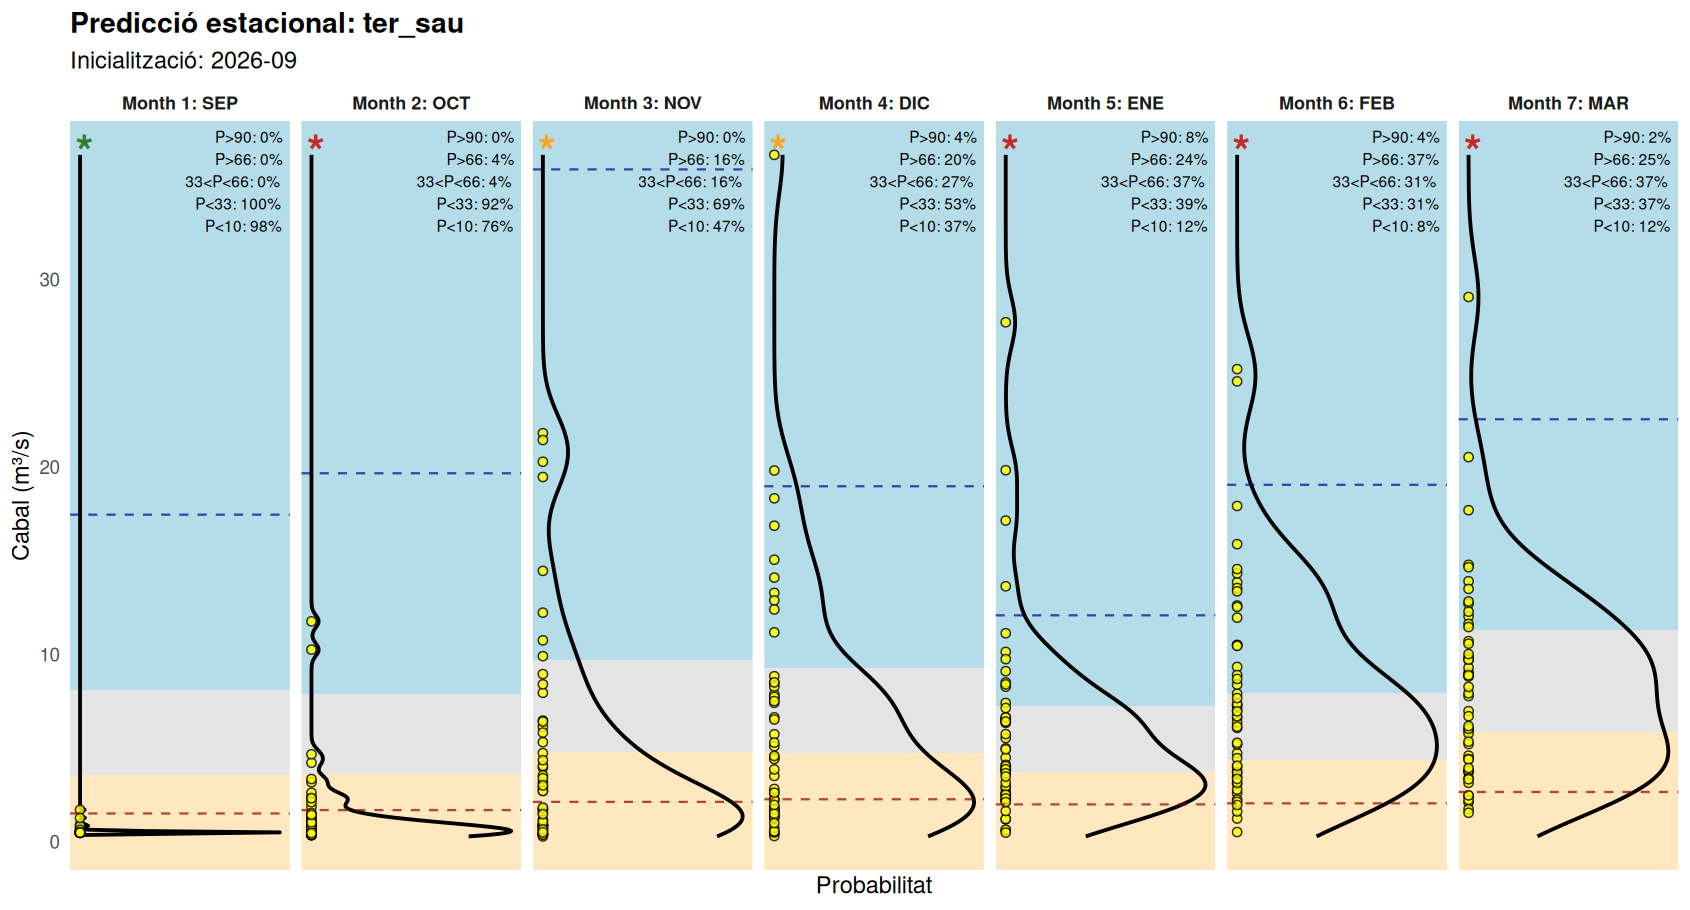
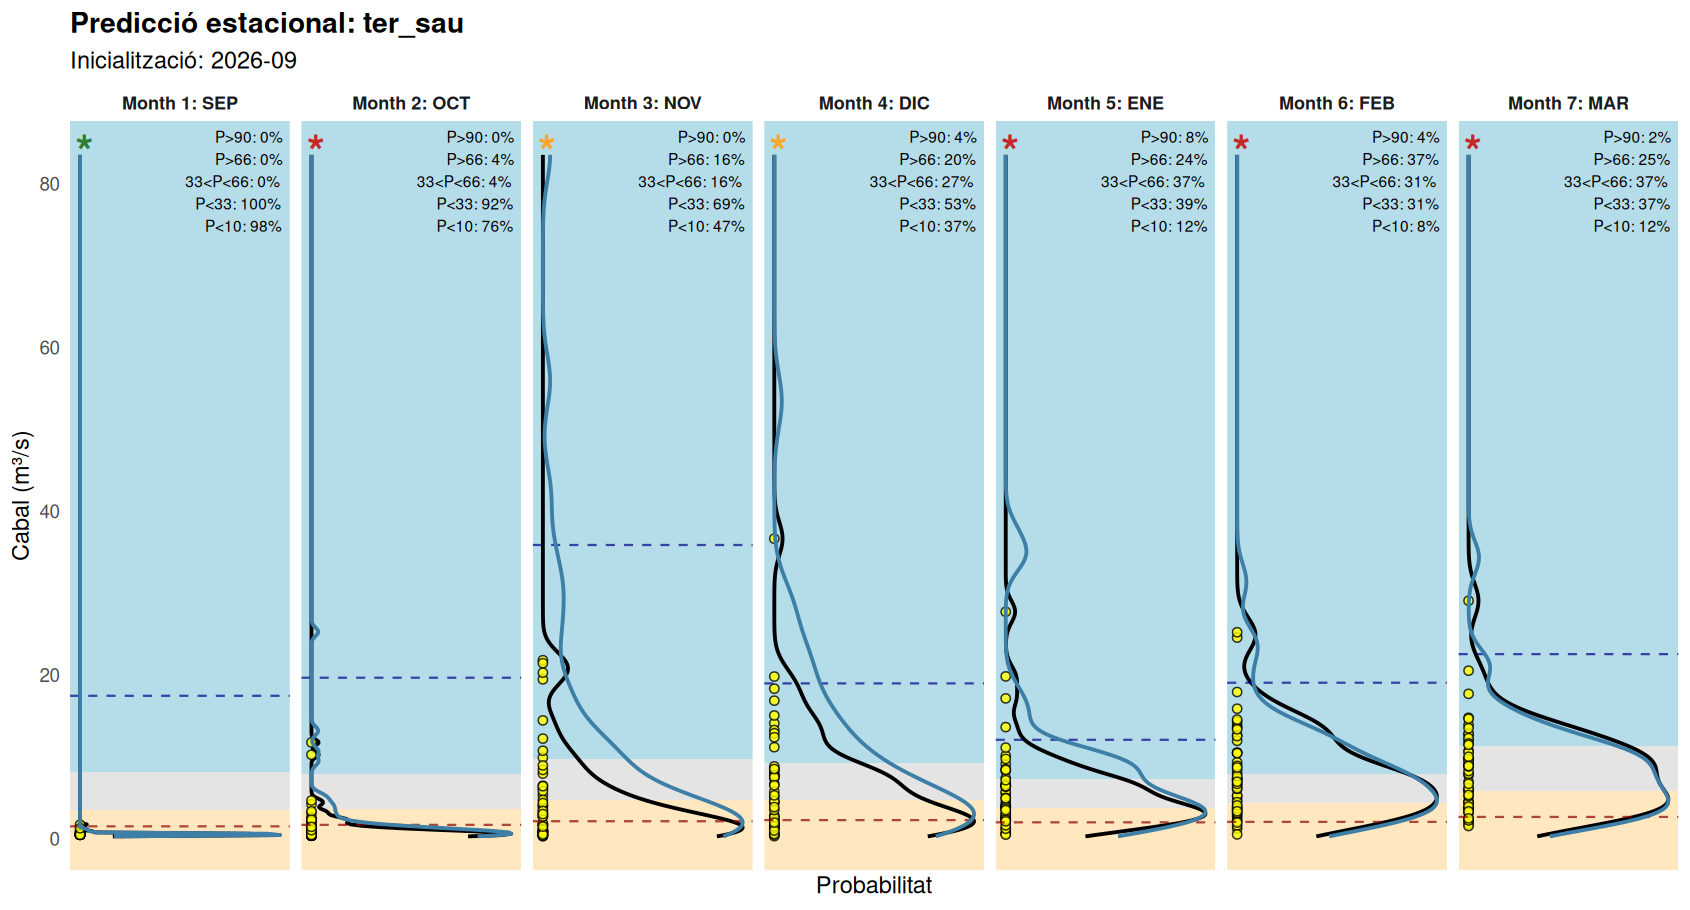
Add QM bias-correction comparison: methodology, skill table, and corrected-forecast overlay (Sau inflow + volume)

diff --git a/index.html b/index.html
@@ -69,6 +69,28 @@ header p{font-size:12px;opacity:0.7}
 /* Leaflet popup style */
 .leaflet-popup-content b{color:#065A82}
 .station-popup{font-size:12px;line-height:1.6}
+
+/* Methodology modal */
+.modal-overlay{position:fixed;inset:0;background:rgba(20,25,28,0.55);display:none;
+               align-items:flex-start;justify-content:center;z-index:1000;padding:4vh 1rem;overflow-y:auto}
+.modal-overlay.open{display:flex}
+.modal-box{background:#fff;border-radius:10px;max-width:880px;width:100%;padding:1.75rem 2rem 2rem;
+           box-shadow:0 20px 60px rgba(0,0,0,0.3)}
+.modal-box h2{font-size:19px;color:#065A82;margin-bottom:0.5rem}
+.modal-box h3{font-size:14px;color:#2C2C2A;margin:1.4rem 0 0.5rem}
+.modal-box p{font-size:13px;line-height:1.6;color:#3a3a38;margin-bottom:0.6rem}
+.modal-box p.note{font-size:11.5px;color:#888780;font-style:italic}
+.modal-close{float:right;background:none;border:none;font-size:22px;color:#888780;cursor:pointer;line-height:1}
+.skill-table{width:100%;border-collapse:collapse;font-size:12px;margin:0.6rem 0 1rem}
+.skill-table th,.skill-table td{padding:5px 8px;text-align:right;border-bottom:1px solid #F0EFE9}
+.skill-table th:first-child,.skill-table td:first-child{text-align:left}
+.skill-table thead th{background:#F8F7F3;color:#888780;font-weight:600;text-transform:uppercase;font-size:10.5px;letter-spacing:0.04em}
+.skill-table td.better{color:#2E7D32;font-weight:700}
+.skill-table td.worse{color:#C62828}
+.skill-table tr.sep td{border-top:2px solid #D9D8D4}
+.method-badge{display:inline-block;font-size:10.5px;font-weight:700;padding:1px 8px;border-radius:999px;margin-left:6px;vertical-align:middle}
+.badge-op{background:#F0EFE9;color:#555}
+.badge-qm{background:#E3F0FA;color:#065A82}
 </style>
 </head>
 <body>
@@ -76,6 +98,7 @@ header p{font-size:12px;opacity:0.7}
 <header>
   <h1>NEREIDA — Seasonal Density Forecast</h1>
   <p>Seleccioneu una estació al mapa per veure la previsió</p>
+  <button id="btnMethod" onclick="openMethod()" style="margin-left:auto;font-size:12px;padding:5px 12px;border-radius:5px;border:1px solid rgba(255,255,255,0.5);background:transparent;color:#fff;cursor:pointer;white-space:nowrap">Metodologia i validació &rarr;</button>
 </header>
 
 <div class="controls">
@@ -106,6 +129,7 @@ header p{font-size:12px;opacity:0.7}
   <span class="legend-item"><span class="leg-line" style="background:#8B0000;opacity:0.7"></span>P10</span>
   <span class="legend-item"><span class="leg-line" style="background:#00008B;opacity:0.7"></span>P90</span>
   <span class="legend-item"><span class="leg-line" style="background:#000"></span>KDE ensemble</span>
+  <span class="legend-item"><span class="leg-line" style="background:#3d7fa6;height:2.5px"></span>KDE corregida (QM)</span>
   <span class="legend-item"><span class="leg-dot"></span>Membres</span>
   <span class="legend-item"><span class="leg-line" style="background:#D81B60;height:2.5px"></span>Observat</span>
   <span class="legend-item" style="border-left:1px solid #D9D8D4;padding-left:1rem">
@@ -117,6 +141,33 @@ header p{font-size:12px;opacity:0.7}
     <span class="map-legend-item"><span class="ml-dot" style="background:#065A82"></span>Estació cabal</span>
     <span class="map-legend-item"><span class="ml-dot" style="background:#E65100"></span>Embassament</span>
   </span>
+</div>
+
+<div class="modal-overlay" id="methodOverlay" onclick="if(event.target===this)closeMethod()">
+  <div class="modal-box">
+    <button class="modal-close" onclick="closeMethod()" aria-label="Tanca">&times;</button>
+    <h2>Per què hi ha dues corbes al gràfic?</h2>
+    <p>Cada panell mostra la distribució de probabilitat (corba negra, <b>KDE ensemble</b>) de 51 escenaris de clima possibles, produïts amb el model estacional ECMWF SEAS5 i convertits a cabal/volum amb el model hidrològic GR4J. Per a l'<b>entrada d'aigua al pantà de Sau</b> (i per tant per al volum Sau–Susqueda) hi ha una segona corba blava: la mateixa predicció, però corregida del biaix sistemàtic que té aquest mètode.</p>
+
+    <h3>El problema: un biaix sec sistemàtic</h3>
+    <p>Comparant 26 anys de predicció (1995–2020) amb les dades observades, la predicció operacional de cabal a Sau és sistemàticament massa seca: <b>entre un −28% i un −54%</b> per sota del que de debò va passar, i pitjor a l'estiu. Un terç d'aquest error ve de la predicció de clima SEAS5 (massa seca i massa càlida a l'estiu respecte a ERA5), i la resta del propi model GR4J.</p>
+
+    <h3>La correcció: quantile mapping</h3>
+    <p>S'aplica un <i>quantile mapping</i> empíric a la precipitació i temperatura de SEAS5 abans d'entrar-les al GR4J: per a cada mes de l'any i cada horitzó (mes 1 vs. mesos 2–7), es transforma la distribució estadística del clima previst perquè coincideixi amb la distribució real observada (ERA5), any per any, sense tocar el model hidrològic. Els anys d'entrenament (1995–2020) s'avaluen amb <i>leave-one-year-out</i> perquè la validació no estigui esbiaixada.</p>
+
+    <h3>Comparació de skill: operacional vs. corregida</h3>
+    <p class="note">NSE: encert respecte a la mitjana observada (1 = perfecte, 0 = tan bo com predir sempre la mitjana, negatiu = pitjor que la mitjana). CRPSS: encert probabilístic respecte a la climatologia (igual escala). Mitjana sobre tots els mesos d'inicialització, 1995–2026.</p>
+    <table class="skill-table" id="skillTable">
+      <thead><tr><th>Variable</th><th>Horitzó</th><th>NSE operacional</th><th>NSE corregida</th><th>CRPSS operacional</th><th>CRPSS corregida</th></tr></thead>
+      <tbody><tr><td colspan="6" style="text-align:center;color:#888780;padding:14px">Carregant…</td></tr></tbody>
+    </table>
+
+    <h3>Un resultat important: millora el cabal, però no (encara) el volum</h3>
+    <p>La correcció millora clarament l'encert del <b>cabal d'entrada a Sau</b> a tots els horitzons — per exemple, l'NSE a 6 mesos puja de <b>&minus;0,42</b> (operacional, pitjor que predir sempre la mitjana) a <b>&minus;0,16</b>. Però, sorprenentment, el <b>volum combinat Sau–Susqueda</b> surt una mica <i>pitjor</i> amb la correcció, no millor: l'NSE a 6 mesos baixa de <b>0,34</b> a <b>0,15</b>, i a 7 mesos passa de tenir encert positiu (0,21) a no tenir-ne (&minus;0,04).</p>
+    <p>El motiu més probable: el biaix sec de la predicció operacional de cabal, per pura casualitat, compensava en part altres errors del balanç hídric (inclòs el fet que SEAS5 no va preveure la sequera real del 2022–24 amb prou antelació). En corregir només el cabal, aquesta compensació fortuïta desapareix. Per això es mostren totes dues corbes a cada gràfica: la corregida és la millor estimació del <i>cabal</i>, però l'operacional continua sent, de moment, la referència més fiable per al <i>volum de l'embassament</i> i per a les decisions de gestió.</p>
+
+    <p class="note">Correcció validada només per a l'entrada d'aigua a Sau (<code>Q_ter_sau</code>) i, per tant, pel volum combinat Sau–Susqueda (<code>V_ter_all</code>) — no (encara) per als altres punts del mapa. Mitjana sobre ~360 parells predicció–observació per horitzó, 1995–2026. Detalls complets a <code>seasonal/bias_correction/</code> al repositori.</p>
+  </div>
 </div>
 
 <div class="layout">
@@ -369,6 +420,49 @@ function loadImages() {
 
 selYear.addEventListener("change",  loadImages);
 selMonth.addEventListener("change", loadImages);
+
+// ── Methodology modal ────────────────────────────────────────────────────────
+let skillLoaded = false;
+function openMethod() {
+  document.getElementById("methodOverlay").classList.add("open");
+  if (!skillLoaded) loadSkillTable();
+}
+function closeMethod() { document.getElementById("methodOverlay").classList.remove("open"); }
+document.addEventListener("keydown", e => { if (e.key === "Escape") closeMethod(); });
+
+function parseCsv(text) {
+  const lines = text.trim().split("\n");
+  const cols = lines[0].split(",");
+  return lines.slice(1).map(l => {
+    const vals = l.split(","); const row = {};
+    cols.forEach((c, i) => row[c] = vals[i]);
+    return row;
+  });
+}
+const VAR_LABEL = { Q_ter_sau: "Cabal entrada Sau (m³/s)", V_ter_all: "Volum Sau–Susqueda (hm³)" };
+async function loadSkillTable() {
+  const tbody = document.querySelector("#skillTable tbody");
+  try {
+    const r = await fetch("skill_comparison.csv");
+    if (!r.ok) throw new Error(r.status);
+    const rows = parseCsv(await r.text());
+    skillLoaded = true;
+    const fmt = v => (v === "" || v === undefined || v === "NA") ? "—" : (+v).toFixed(2);
+    const cls = (op, qm) => (op === "" || qm === "" || op === "NA" || qm === "NA") ? "" :
+      (+qm > +op ? "better" : (+qm < +op ? "worse" : ""));
+    tbody.innerHTML = rows.map((row, i) => {
+      const sep = (i === 0 || rows[i - 1].variable !== row.variable) ? " sep" : "";
+      return `<tr class="${sep.trim()}">
+        <td>${i === 0 || rows[i - 1].variable !== row.variable ? VAR_LABEL[row.variable] || row.variable : ""}</td>
+        <td>t+${row.lead}</td>
+        <td>${fmt(row.nse_op)}</td><td class="${cls(row.nse_op, row.nse_qm)}">${fmt(row.nse_qm)}</td>
+        <td>${fmt(row.crpss_op)}</td><td class="${cls(row.crpss_op, row.crpss_qm)}">${fmt(row.crpss_qm)}</td>
+      </tr>`;
+    }).join("");
+  } catch (e) {
+    tbody.innerHTML = `<tr><td colspan="6" style="text-align:center;color:#888780;padding:14px">Taula de validació no disponible (${e.message}).</td></tr>`;
+  }
+}
 </script>
 </body>
 </html>
